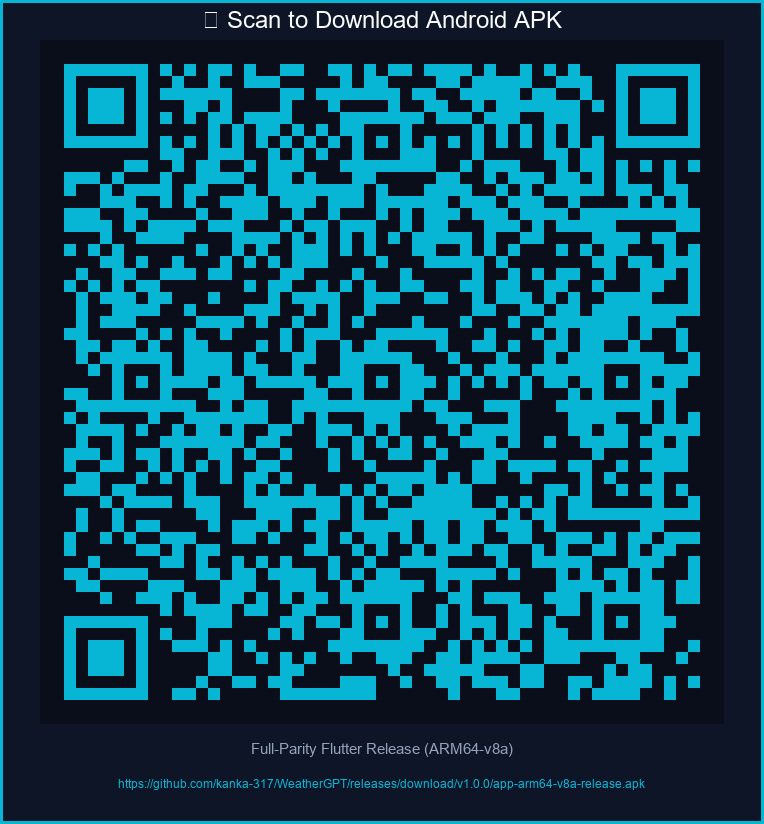
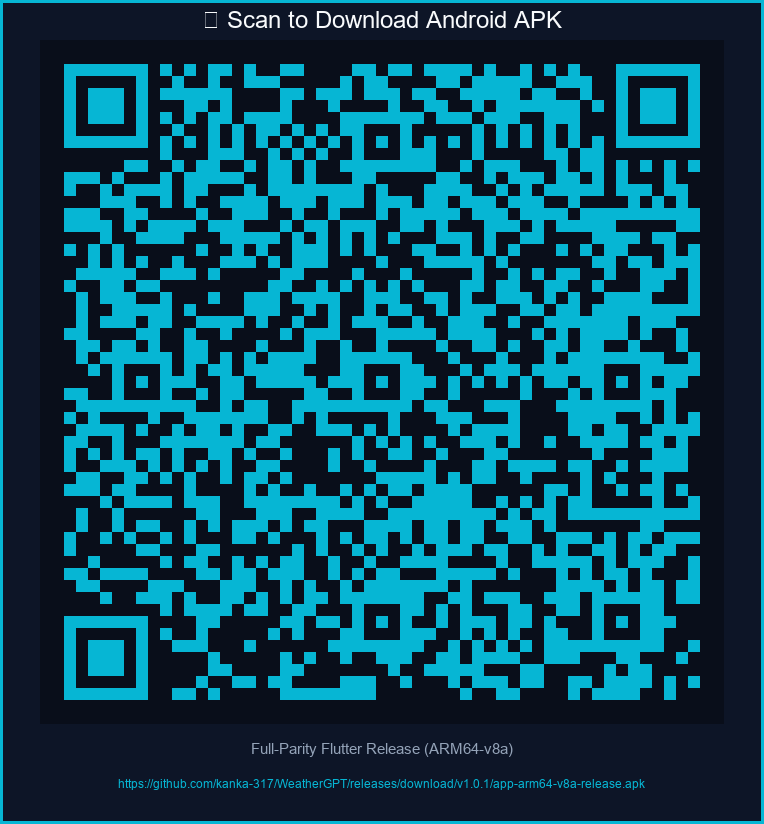
fix(mobile): upgrade Gradle wrapper to 8.14-all and add dependency validation bypass

diff --git a/generate_demo_qrcodes.py b/generate_demo_qrcodes.py
@@ -53,7 +53,7 @@ def generate_styled_qr(data: str, title: str, subtitle: str, filename: str, acce
 if __name__ == "__main__":
     os.makedirs("demo_assets", exist_ok=True)
     
-    apk_url = "https://github.com/kanka-317/WeatherGPT/releases/download/v1.0.0/app-arm64-v8a-release.apk"
+    apk_url = "https://github.com/kanka-317/WeatherGPT/releases/download/v1.0.1/app-arm64-v8a-release.apk"
     web_url = "https://weathergpt-mobile.netlify.app"
 
     generate_styled_qr(
